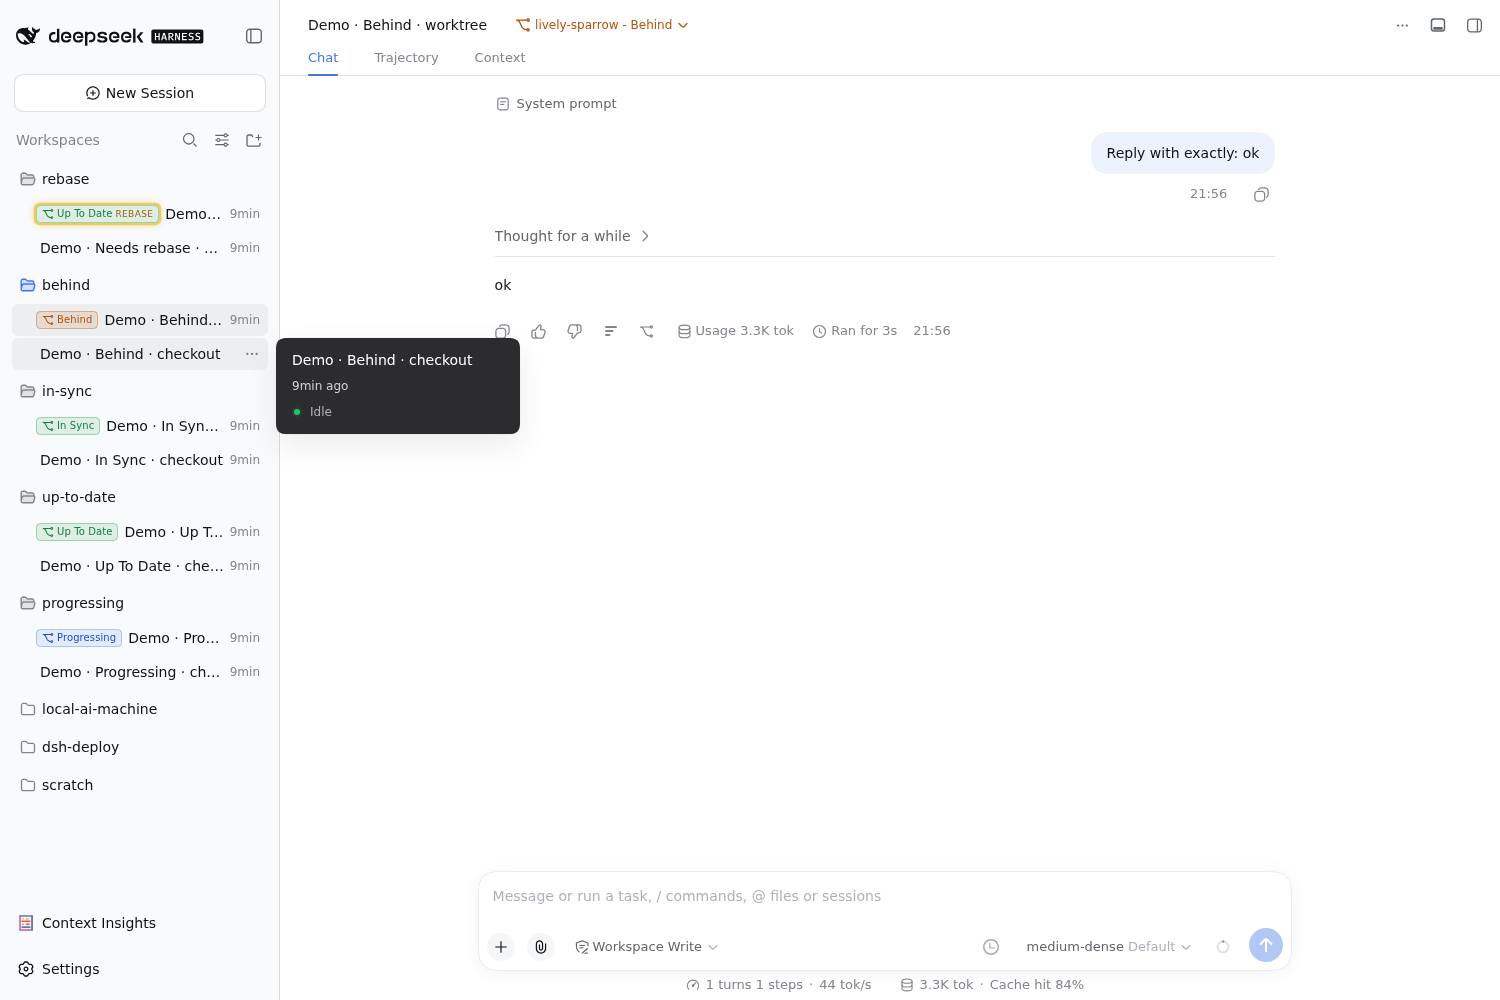
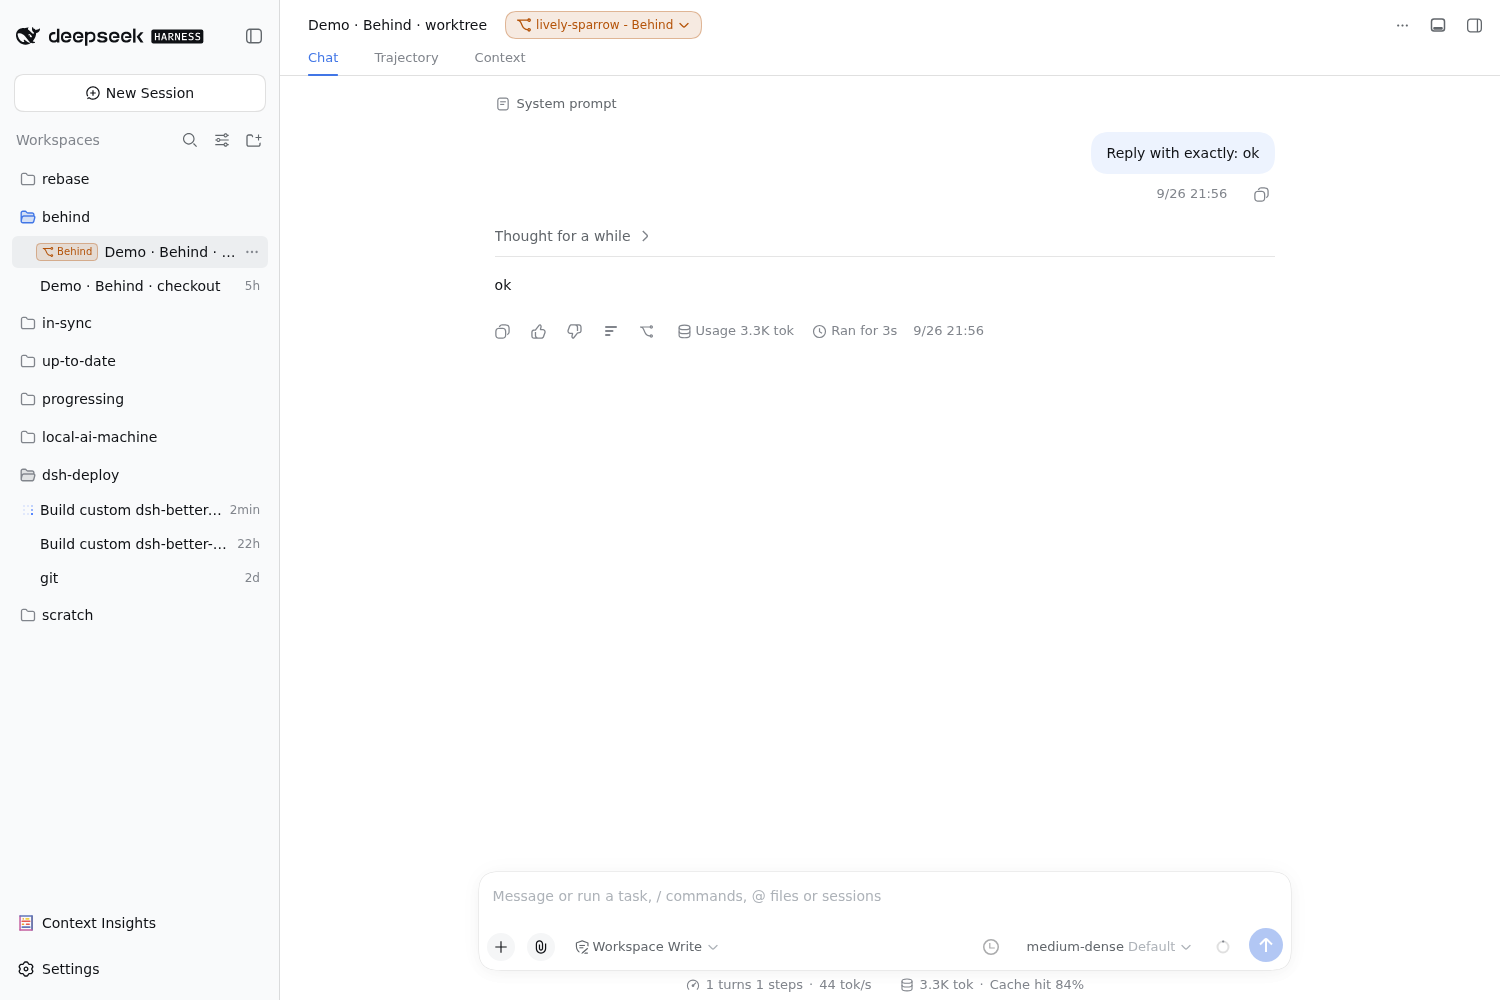
dsh-better-git-worktree: widen the status tooltip, break it in two lines
The hover card was 244px wide, which made a full status sentence hard to read.
The card that carries this plugin's status line is now 366px (1.5x) and the line
itself keeps its breaks, so the summary reads as two lines: which checkout this
is, then how it stands. Both the harness hover card and the header pill's native
title render the newline. Screenshot 03 re-captured.

diff --git a/.dsh/profiles/web/plugins/dsh-better-git-worktree/client.js b/.dsh/profiles/web/plugins/dsh-better-git-worktree/client.js
@@ -907,7 +907,7 @@ window.__ModuleLoader__.load({
 					}),
 					bgwHover !== void 0 && (0, react_jsx_runtime.jsxs)("div", {
 						className: Rows_module_css_default.hoverStatus,
-						children: [(0, react_jsx_runtime.jsx)(_deepseek_ai_dsh_client_ui_primitives.IconBranchOutline16, {}), (0, react_jsx_runtime.jsx)("span", { children: bgwHover.tooltip })]
+						children: [(0, react_jsx_runtime.jsx)(_deepseek_ai_dsh_client_ui_primitives.IconBranchOutline16, {}), (0, react_jsx_runtime.jsx)("span", { className: "bgw-hover-status", children: bgwHover.tooltip })]
 					}),
 					!node.blank && (0, react_jsx_runtime.jsx)("div", {
 						className: Rows_module_css_default.hoverTime,
@@ -2919,6 +2919,11 @@ window.__ModuleLoader__.load({
 			+ ".bgw-menu-summary strong{font:600 12px/16px Inter,sans-serif;color:var(--dsw-alias-label-primary,#222)}"
 			+ ".bgw-menu-error{color:var(--dsw-alias-state-error-primary,#c00)}"
 			+ ".bgw-menu-notice{color:var(--bgw-done)}"
+			// The status tooltip is a sentence, not a label: keep the line breaks the
+			// Host writes, and give the harness hover card 1.5x its width.
+			+ ".bgw-hover-status{white-space:pre-line}"
+			+ "[class*='_card_']:has(.bgw-hover-status){width:366px;max-width:366px}"
+			+ "[class*='hoverContent']:has(.bgw-hover-status){width:100%}"
 			+ "button[role=menuitem]:disabled:has(.bgw-menu-summary){opacity:1;cursor:default}"
 			+ ".bgw-panel{display:flex;flex-direction:column;gap:10px;padding:10px 12px;height:100%;overflow:auto;font:400 12px/18px Inter,sans-serif;color:var(--dsw-alias-label-primary,#333)}"
 			+ ".bgw-panel h4{margin:0;font:600 12px/18px Inter,sans-serif;color:var(--dsw-alias-label-primary,#222)}"

diff --git a/.dsh/profiles/web/plugins/dsh-better-git-worktree/client.template.js b/.dsh/profiles/web/plugins/dsh-better-git-worktree/client.template.js
@@ -76,6 +76,11 @@ window.__ModuleLoader__.load({
 			+ ".bgw-menu-summary strong{font:600 12px/16px Inter,sans-serif;color:var(--dsw-alias-label-primary,#222)}"
 			+ ".bgw-menu-error{color:var(--dsw-alias-state-error-primary,#c00)}"
 			+ ".bgw-menu-notice{color:var(--bgw-done)}"
+			// The status tooltip is a sentence, not a label: keep the line breaks the
+			// Host writes, and give the harness hover card 1.5x its width.
+			+ ".bgw-hover-status{white-space:pre-line}"
+			+ "[class*='_card_']:has(.bgw-hover-status){width:366px;max-width:366px}"
+			+ "[class*='hoverContent']:has(.bgw-hover-status){width:100%}"
 			+ "button[role=menuitem]:disabled:has(.bgw-menu-summary){opacity:1;cursor:default}"
 			+ ".bgw-panel{display:flex;flex-direction:column;gap:10px;padding:10px 12px;height:100%;overflow:auto;font:400 12px/18px Inter,sans-serif;color:var(--dsw-alias-label-primary,#333)}"
 			+ ".bgw-panel h4{margin:0;font:600 12px/18px Inter,sans-serif;color:var(--dsw-alias-label-primary,#222)}"
